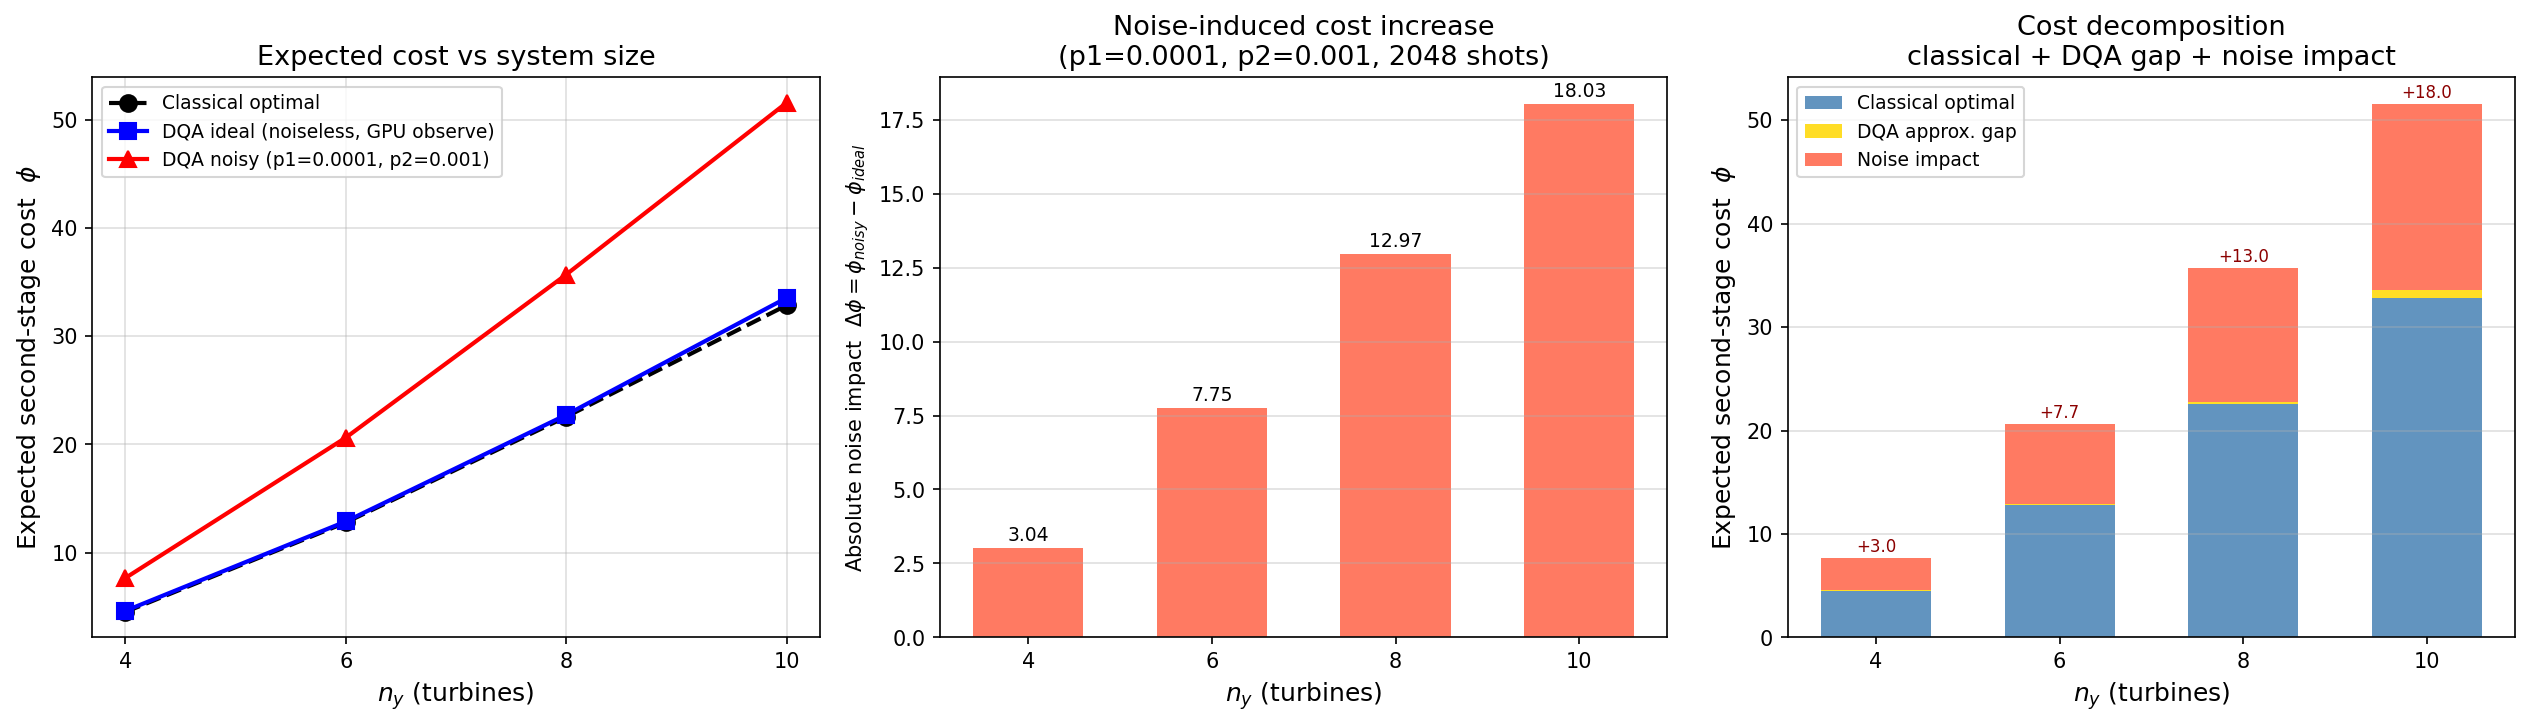
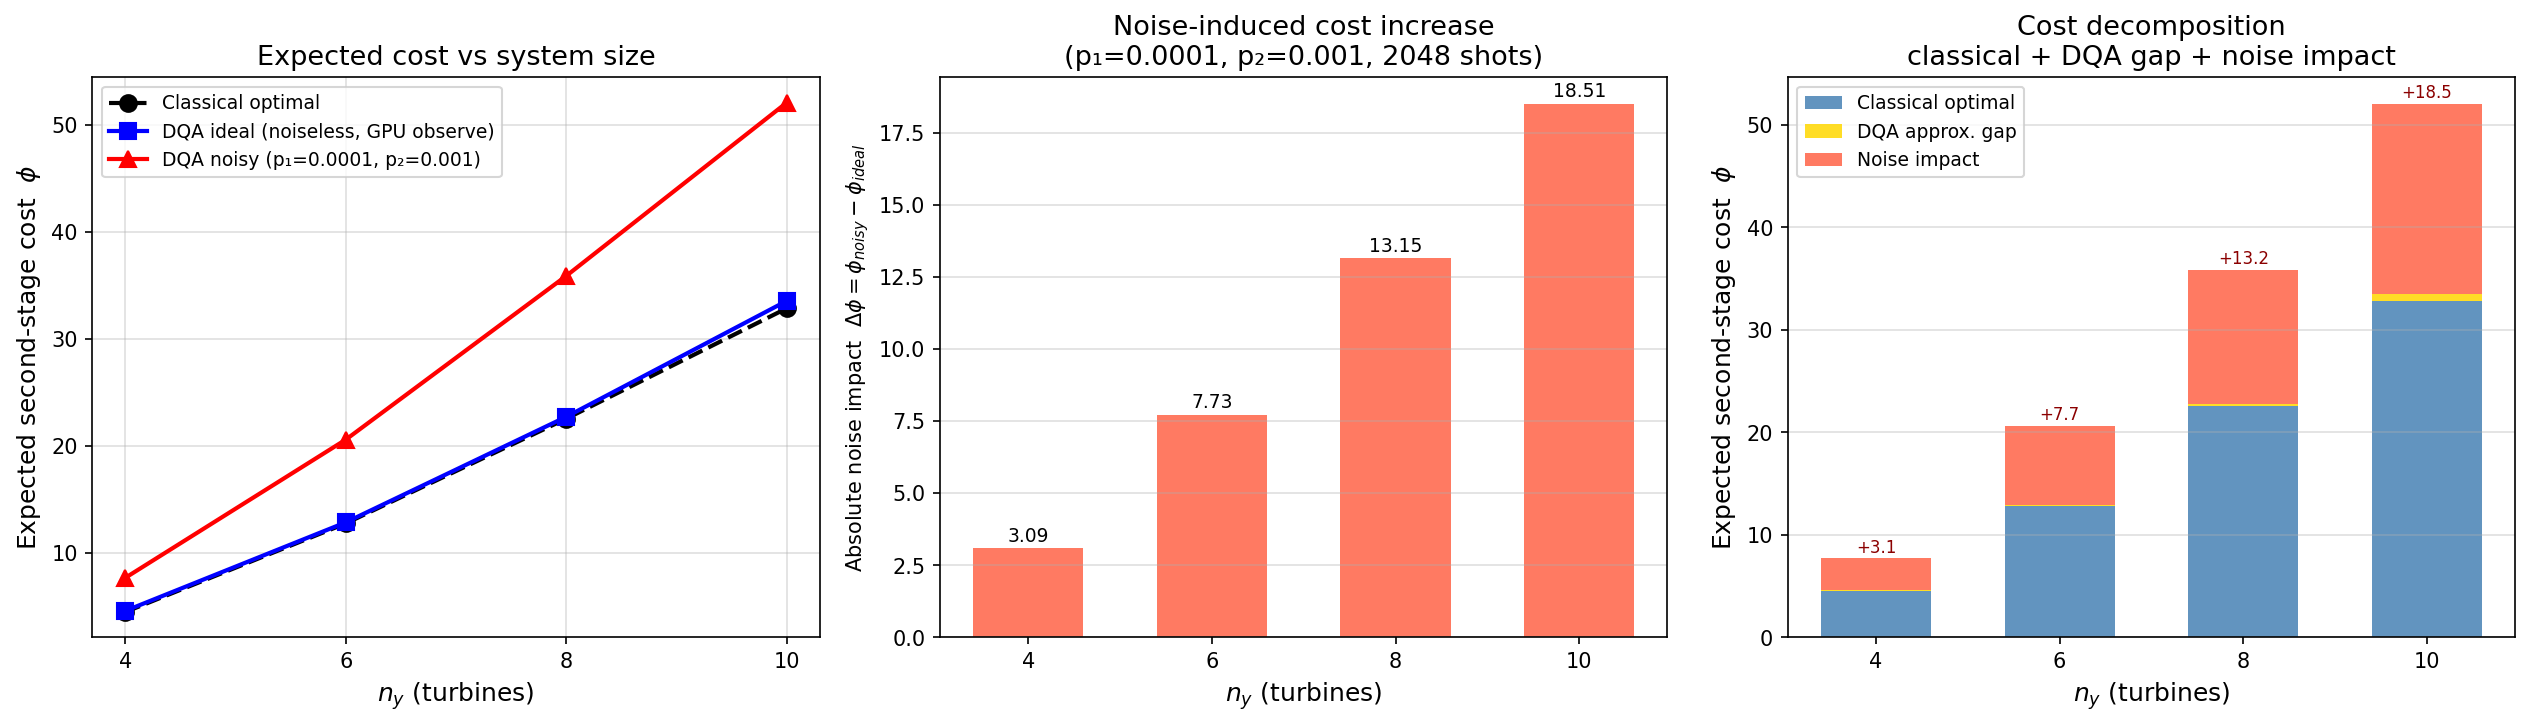
feat: mqpu shot splitting via sample_ansatz_mqpu; fix noise model gate names (remove tdg/sdg/cnot/swap/cphase)

diff --git a/qiskit_impl/cudaq_impl.py b/qiskit_impl/cudaq_impl.py
@@ -577,8 +577,10 @@ def build_depolarizing_noise_model(p1: float = 0.001,
 
     # ---- single-qubit depolarization ----------------------------------
     dep1 = cudaq.Depolarization1(p1)
-    _single_qubit_gates = ['h', 'x', 'y', 'z', 'rx', 'ry', 'rz', 't', 's',
-                           'tdg', 'sdg', 'r1']
+    # Gate names recognised by cudaq.NoiseModel on the nvidia target.
+    # Note: 'tdg' and 'sdg' are NOT valid — CUDA-Q does not expose adjoint
+    # gates as separately named ops for noise channels.
+    _single_qubit_gates = ['h', 'x', 'y', 'z', 'rx', 'ry', 'rz', 't', 's', 'r1']
     for gate in _single_qubit_gates:
         noise.add_all_qubit_channel(gate, dep1)
 
@@ -586,9 +588,10 @@ def build_depolarizing_noise_model(p1: float = 0.001,
     # cudaq.Depolarization2 applies one of {IX,IY,...,ZZ} with equal
     # probability p2/15 each; state is unchanged with prob 1-p2.
     dep2 = cudaq.Depolarization2(p2)
-    _two_qubit_gates = ['cx', 'cnot', 'cy', 'cz', 'swap',
-                        'rxx', 'ryy', 'rzz',
-                        'cry', 'crx', 'crz', 'cphase']
+    # Only gate names recognised by the nvidia target are listed.
+    # 'cnot','swap','cphase','rxx','ryy' are NOT valid on nvidia.
+    # The DQA kernel uses: cx (fswap decomp), cr1 (cost_operator), cry (dicke).
+    _two_qubit_gates = ['cx', 'cy', 'cz', 'crz', 'crx', 'cry', 'cr1']
     for gate in _two_qubit_gates:
         noise.add_all_qubit_channel(gate, dep2)
 
@@ -670,6 +673,57 @@ class CudaqQAEOptimizer:
             noise_model=self.noise_model)
         total = sum(counts.values())
         return {k: v / total for k, v in counts.items()}
+
+    def sample_ansatz_mqpu(self, thetas: list, total_shots: int = 4096,
+                           n_qpus: int = None) -> dict:
+        """Sample the DQA ansatz across multiple GPUs using mqpu shot splitting.
+
+        Divides ``total_shots`` evenly across all available virtual QPUs
+        (one per GPU) using ``cudaq.sample_async``, then merges the raw counts.
+
+        Requires the target to be set to mqpu before calling::
+
+            cudaq.set_target('nvidia', option='mqpu')
+
+        Args:
+            thetas:       Alternating [gamma, beta, ...] DQA angles.
+            total_shots:  Total number of shots summed across all GPUs.
+            n_qpus:       Number of virtual QPUs to use. Defaults to
+                          ``cudaq.num_available_gpus()``.
+
+        Returns:
+            Dict {bitstring: probability} — normalised over all merged shots.
+        """
+        n_available = cudaq.num_available_gpus()
+        if n_qpus is None:
+            n_qpus = n_available
+        else:
+            n_qpus = min(n_qpus, n_available)
+
+        shots_per_qpu = total_shots // n_qpus
+        remainder     = total_shots - shots_per_qpu * n_qpus
+        n_steps       = len(thetas) // 2
+
+        # Dispatch all GPUs simultaneously
+        futures = []
+        for i in range(n_qpus):
+            s = shots_per_qpu + (remainder if i == n_qpus - 1 else 0)
+            futures.append(cudaq.sample_async(
+                dqa_ansatz,
+                self.dang, self.c_y, self.c_r, self.cost_norm, self.w_d,
+                thetas, n_steps, self.n_y,
+                shots_count=s,
+                noise_model=self.noise_model,
+                qpu_id=i))
+
+        # Merge raw counts from all GPUs
+        merged: dict = {}
+        for f in futures:
+            for bitstring, count in f.get().items():
+                merged[bitstring] = merged.get(bitstring, 0) + count
+
+        total = sum(merged.values())
+        return {k: v / total for k, v in merged.items()}
 
     def get_statevector(self, thetas: list) -> np.ndarray:
         """Return the full complex amplitude vector for the DQA ansatz.

diff --git a/qiskit_impl/run_noise_study.py b/qiskit_impl/run_noise_study.py
@@ -36,9 +36,10 @@ import cudaq
 from cudaq_impl import CudaqQAEOptimizer, build_depolarizing_noise_model
 from binary_optimizer import BinaryNestedOptimizer
 
-cudaq.set_target('nvidia')
-print(f'CUDA-Q  target : {cudaq.get_target().name}')
-print(f'GPUs available : {cudaq.num_available_gpus()}')
+cudaq.set_target('nvidia', option='mqpu')
+N_QPUS = cudaq.num_available_gpus()
+print(f'CUDA-Q  target : {cudaq.get_target().name}  (mqpu, {N_QPUS} virtual QPUs)')
+print(f'GPUs available : {N_QPUS}')
 
 # ── NOISE MODEL ───────────────────────────────────────────────────────────────
 P1, P2   = 0.0001, 0.001   # realistic near-term: p1=0.01%, p2=0.1% per gate
@@ -156,7 +157,7 @@ for ny, thetas in optimized_thetas.items():
         c_x=C_X, c_y=cfg['c_y'], c_r=cfg['c_r'],
         n_y=ny, w_d=cfg['w_d'], cost_norm=cfg['cost_norm'], noise_model=noise_model)
     t0     = time.perf_counter()
-    counts = opt_n.sample_ansatz(cfg['theta0'], shots=N_SHOTS)
+    counts = opt_n.sample_ansatz_mqpu(cfg['theta0'], total_shots=N_SHOTS, n_qpus=N_QPUS)
     phi_n  = 0.0
     c_y_arr = np.array(cfg['c_y'])
     for bstr, prob in counts.items():
@@ -172,7 +173,7 @@ for ny, thetas in optimized_thetas.items():
     ref = classical_phi[ny]
     deg = (phi_n - phi_i) / phi_i * 100  # signed: + means noise worsened result
     print(f'  Ideal : φ={phi_i:.4f}  vs classical err={abs(phi_i-ref)/ref*100:.2f}%  ({dt_i*1e3:.0f} ms)')
-    print(f'  Noisy : φ={phi_n:.4f}  vs classical err={abs(phi_n-ref)/ref*100:.2f}%  ({dt_n*1e3:.0f} ms)')
+    print(f'  Noisy : φ={phi_n:.4f}  vs classical err={abs(phi_n-ref)/ref*100:.2f}%  ({dt_n*1e3:.0f} ms, {N_SHOTS} shots split across {N_QPUS} QPUs)')
     print(f'  Noise shift: {deg:+.2f}% (+ = degraded, - = improved)')
 
 # ── PLOT ──────────────────────────────────────────────────────────────────────